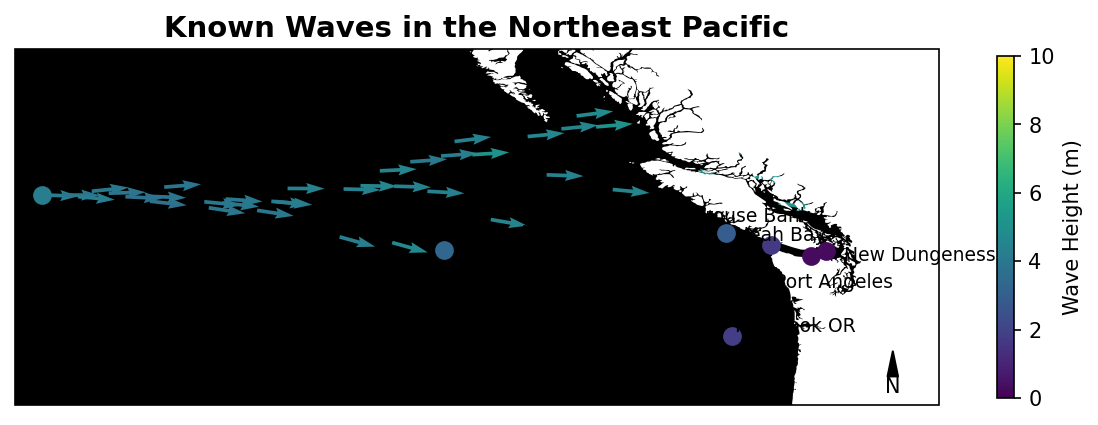
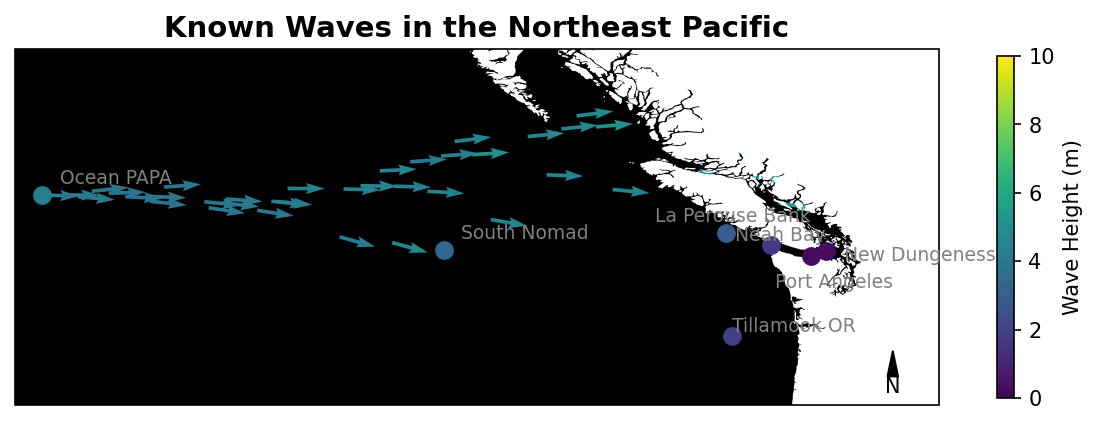
new surf report ui

diff --git a/_salish_website.py b/_salish_website.py
@@ -26,17 +26,17 @@ date: {date}
 ---
 ![Wave Map](/plots/maps/pacific.png)
 
-![Wave Map](/plots/maps/Puget Sound.png)
+![Wave Map](/plots/maps/Island.png)
 
-![Wave Map](/plots/maps/Inner Puget Sound.png)
+![Wave Map](/plots/maps/Strait.png)
 
 
 ## Ocean Papa Wave Report:
-{arclength(49.903, 145.246, 48.2248207, 122.7701732)/1000:.2f}km {azimuth(49.903, 145.246, 48.2248207, 122.7701732):.2f}° to Fort Ebey
+{arclength(49.903, 145.246, 48.2248207, 122.7701732)/1000:.2f}km to Fort Ebey
 - **Wave height: {wave145['WVHT']*3.28084:.1f}ft
 - **Dominant period: {wave145['DPD']} s
-- **Wave energy: {wave145['wave_energy']:.0f} kJ/m pr. crest
-A meter of wave has the same amount of kinetic energy as a prius driving {math.sqrt(wave145['wave_energy']*2/1350)*2.23694:.1f}mph
+- **Wave energy: {wave145['wave_energy']:.0f} kJ/m of crest
+A meter wide of wave has the same amount of kinetic energy as a prius driving {math.sqrt(wave145['wave_energy']*2/1350)*2.23694:.1f}mph
 - **Wave bearing: {wave145['wave_bearing']:.0f}°
 
 ![Wave Plot](/plots/waves/Ocean_Papa.png) 
@@ -45,14 +45,14 @@ A meter of wave has the same amount of kinetic energy as a prius driving {math.s
 ---
 
 ## Neah Bay Wave Report:  
-{arclength(48.493, 124.727, 48.2248207, 122.7701732)/1000:.2f}km {azimuth(48.493, 124.727,48.2248207, 122.7701732):.2f}° to Fort Ebey
+{arclength(48.493, 124.727, 48.2248207, 122.7701732)/1000:.2f}km to Fort Ebey
 
-- **Wave height:** {wave124.get('WVHT', 'N/A')} m  
-- **Dominant period:** {wave124.get('DPD', 'N/A')} s  
-- **Mean bearing:** {wave124.get('wave_bearing', 'N/A')}°  
-- **Wind speed:** {wave124.get('WSPD', 'N/A')} m/s  
-- **Wind direction:** {wave124.get('WDIR', 'N/A')}°  
-- **Energy:** {wave124.get('wave_energy', 0):.2f} kJ/m 
+- **Wave height: {wave124['WVHT']*3.28084:.1f}ft
+- **Dominant period: {wave124['DPD']} s
+- **Wave energy: {wave124['wave_energy']:.0f} kJ/m of crest
+A meter wide of wave has the same amount of kinetic energy as a prius driving {math.sqrt(wave145['wave_energy']*2/1350)*2.23694:.1f}mph
+- **Wave bearing: {wave124['wave_bearing']:.0f}°
+- **Wind speed:** {wave124.get('WSPD', 'N/A')} m/s 
 
 ![Wave Plot](/plots/waves/Neah_Bay.png)
 
@@ -60,32 +60,29 @@ A meter of wave has the same amount of kinetic energy as a prius driving {math.s
 
 ![Tideplot](/plots/tidecurrent/Neah_Bay.png) 
 
-- (https://www.ndbc.noaa.gov/station_page.php?station=46087)
-
+- [See Photos](https://www.ndbc.noaa.gov/station_page.php?station=46087)
 
 
 ## Port Angeles Wave Report: 
-{arclength(48.173, 123.607, 48.2248207, 122.7701732)/1000:.2f}km {azimuth(48.173, 123.607,48.2248207, 122.7701732 ):.2f}° to Fort Ebey 
+{arclength(48.173, 123.607, 48.2248207, 122.7701732)/1000:.2f}km to Fort Ebey 
 - **Dominant period:** {wave123pa.get('DPD', 'N/A')} s  
 - **Mean direction:** {wave123pa.get('MWD', 'N/A')}°  
 - **Wind speed:** {wave123pa.get('WSPD', 'N/A')} m/s  
 - **Wind direction:** {wave123pa.get('WDIR', 'N/A')}°  
 - **Energy:** {wave123pa.get('wave_energy', 0):.2f} kJ/m  
-- [Station Page](https://www.ndbc.noaa.gov/station_page.php?station=46267)
 
 ![Wave Plot](/plots/waves/Port_Angelis.png)
 
 
 ## New Dungeness Wave Report: 
-{arclength(48.332, 123.179,48.2248207, 122.7701732)/1000:.2f} km {azimuth(48.332,  123.179,48.2248207, 122.7701732):.2f}° to Fort Ebey 
+{arclength(48.332, 123.179,48.2248207, 122.7701732)/1000:.2f} km to Fort Ebey 
 
-- **Wave height:** {wave123nd.get('WVHT', 'N/A')} m  
 - **Dominant period:** {wave123nd.get('DPD', 'N/A')} s  
 - **Mean direction:** {wave123nd.get('MWD', 'N/A')}°  
 - **Wind speed:** {wave123nd.get('WSPD', 'N/A')} m/s  
 - **Wind direction:** {wave123nd.get('WDIR', 'N/A')}°  
 - **Energy:** {wave123nd.get('wave_energy', 0):.2f} kJ/m  
-- **Status:** {wave123nd.get('status', 'Unknown')}  
+
 - [Station Page →](https://www.ndbc.noaa.gov/station_page.php?station=46088)
 
 ![Wave Plot](/plots/waves/New_Dungeness.png)
@@ -104,4 +101,4 @@ A meter of wave has the same amount of kinetic energy as a prius driving {math.s
     with open(outpath, "w") as f:
         f.write(md)
 
-    print(f"✅ Markdown report updated: {outpath}")
+    print(f"Markdown report updated: {outpath}")

diff --git a/_map_conditions.py b/_map_conditions.py
@@ -298,6 +298,7 @@ def map_pacific(pacific_waves,wave133,wave126,wave125, wave124, wave123pa, wave1
             f'{row["name"]}',
             transform=proj,
             fontsize=9,
+            color = "grey",
             verticalalignment="bottom",
             zorder=6
         )
